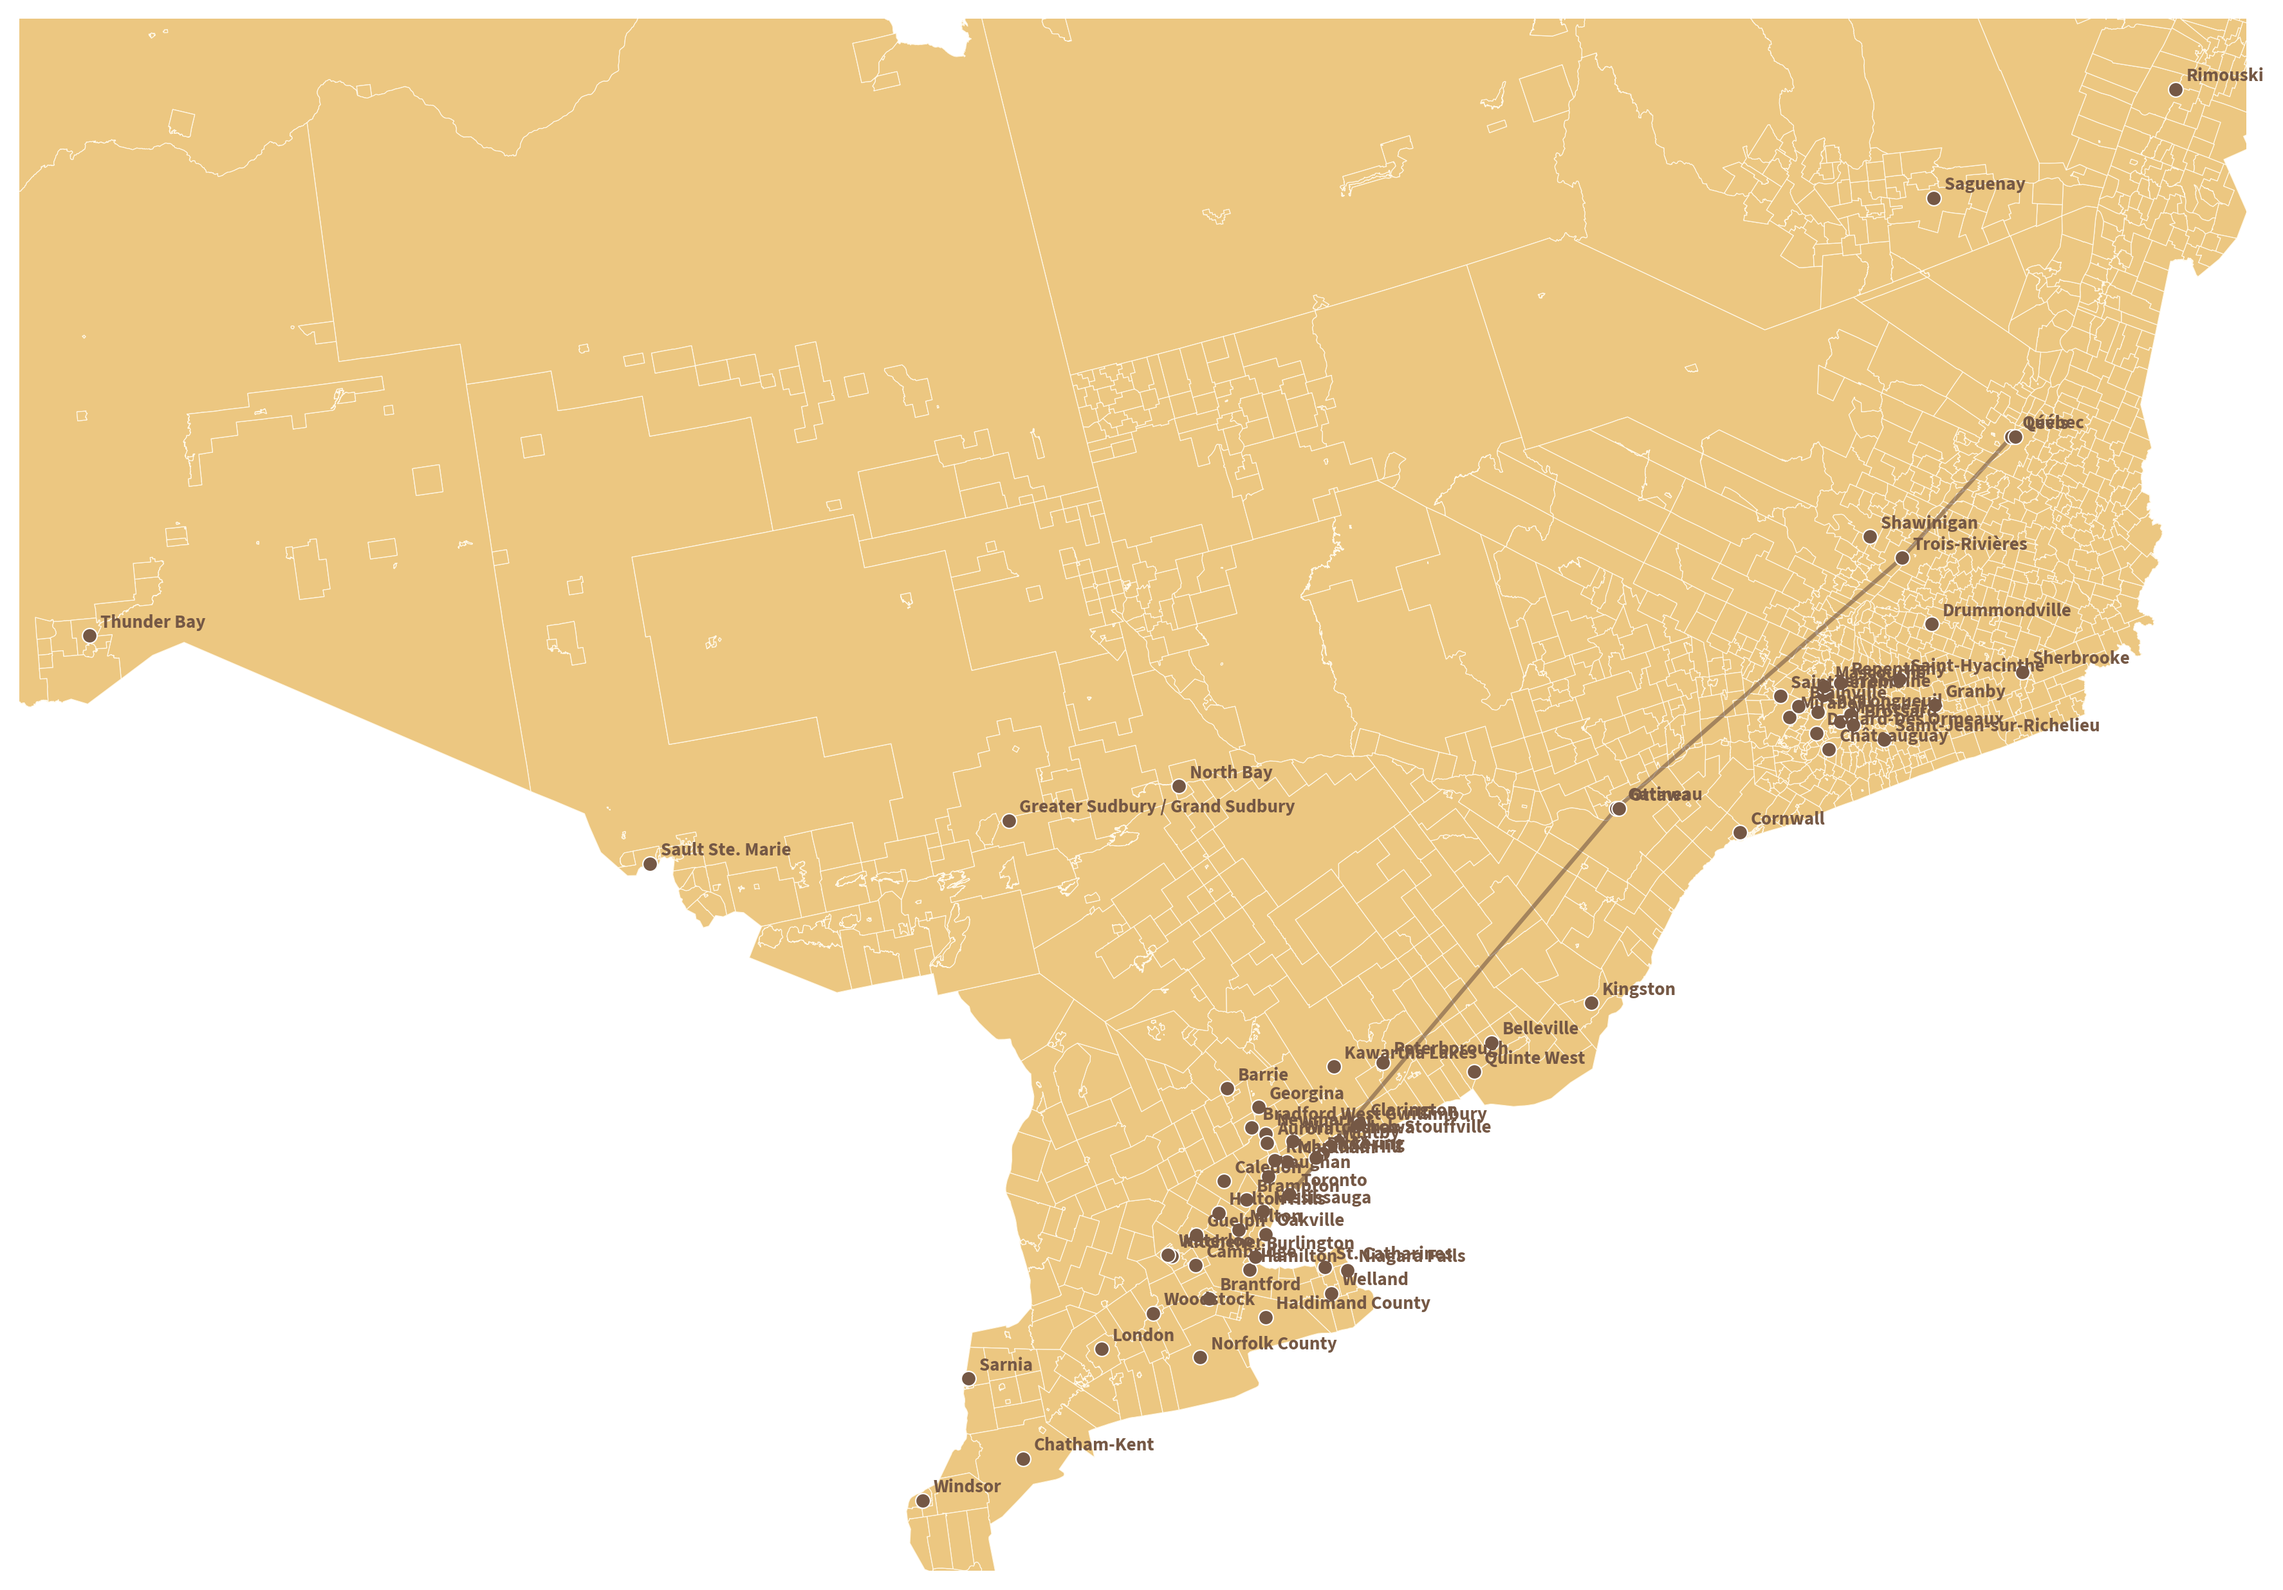
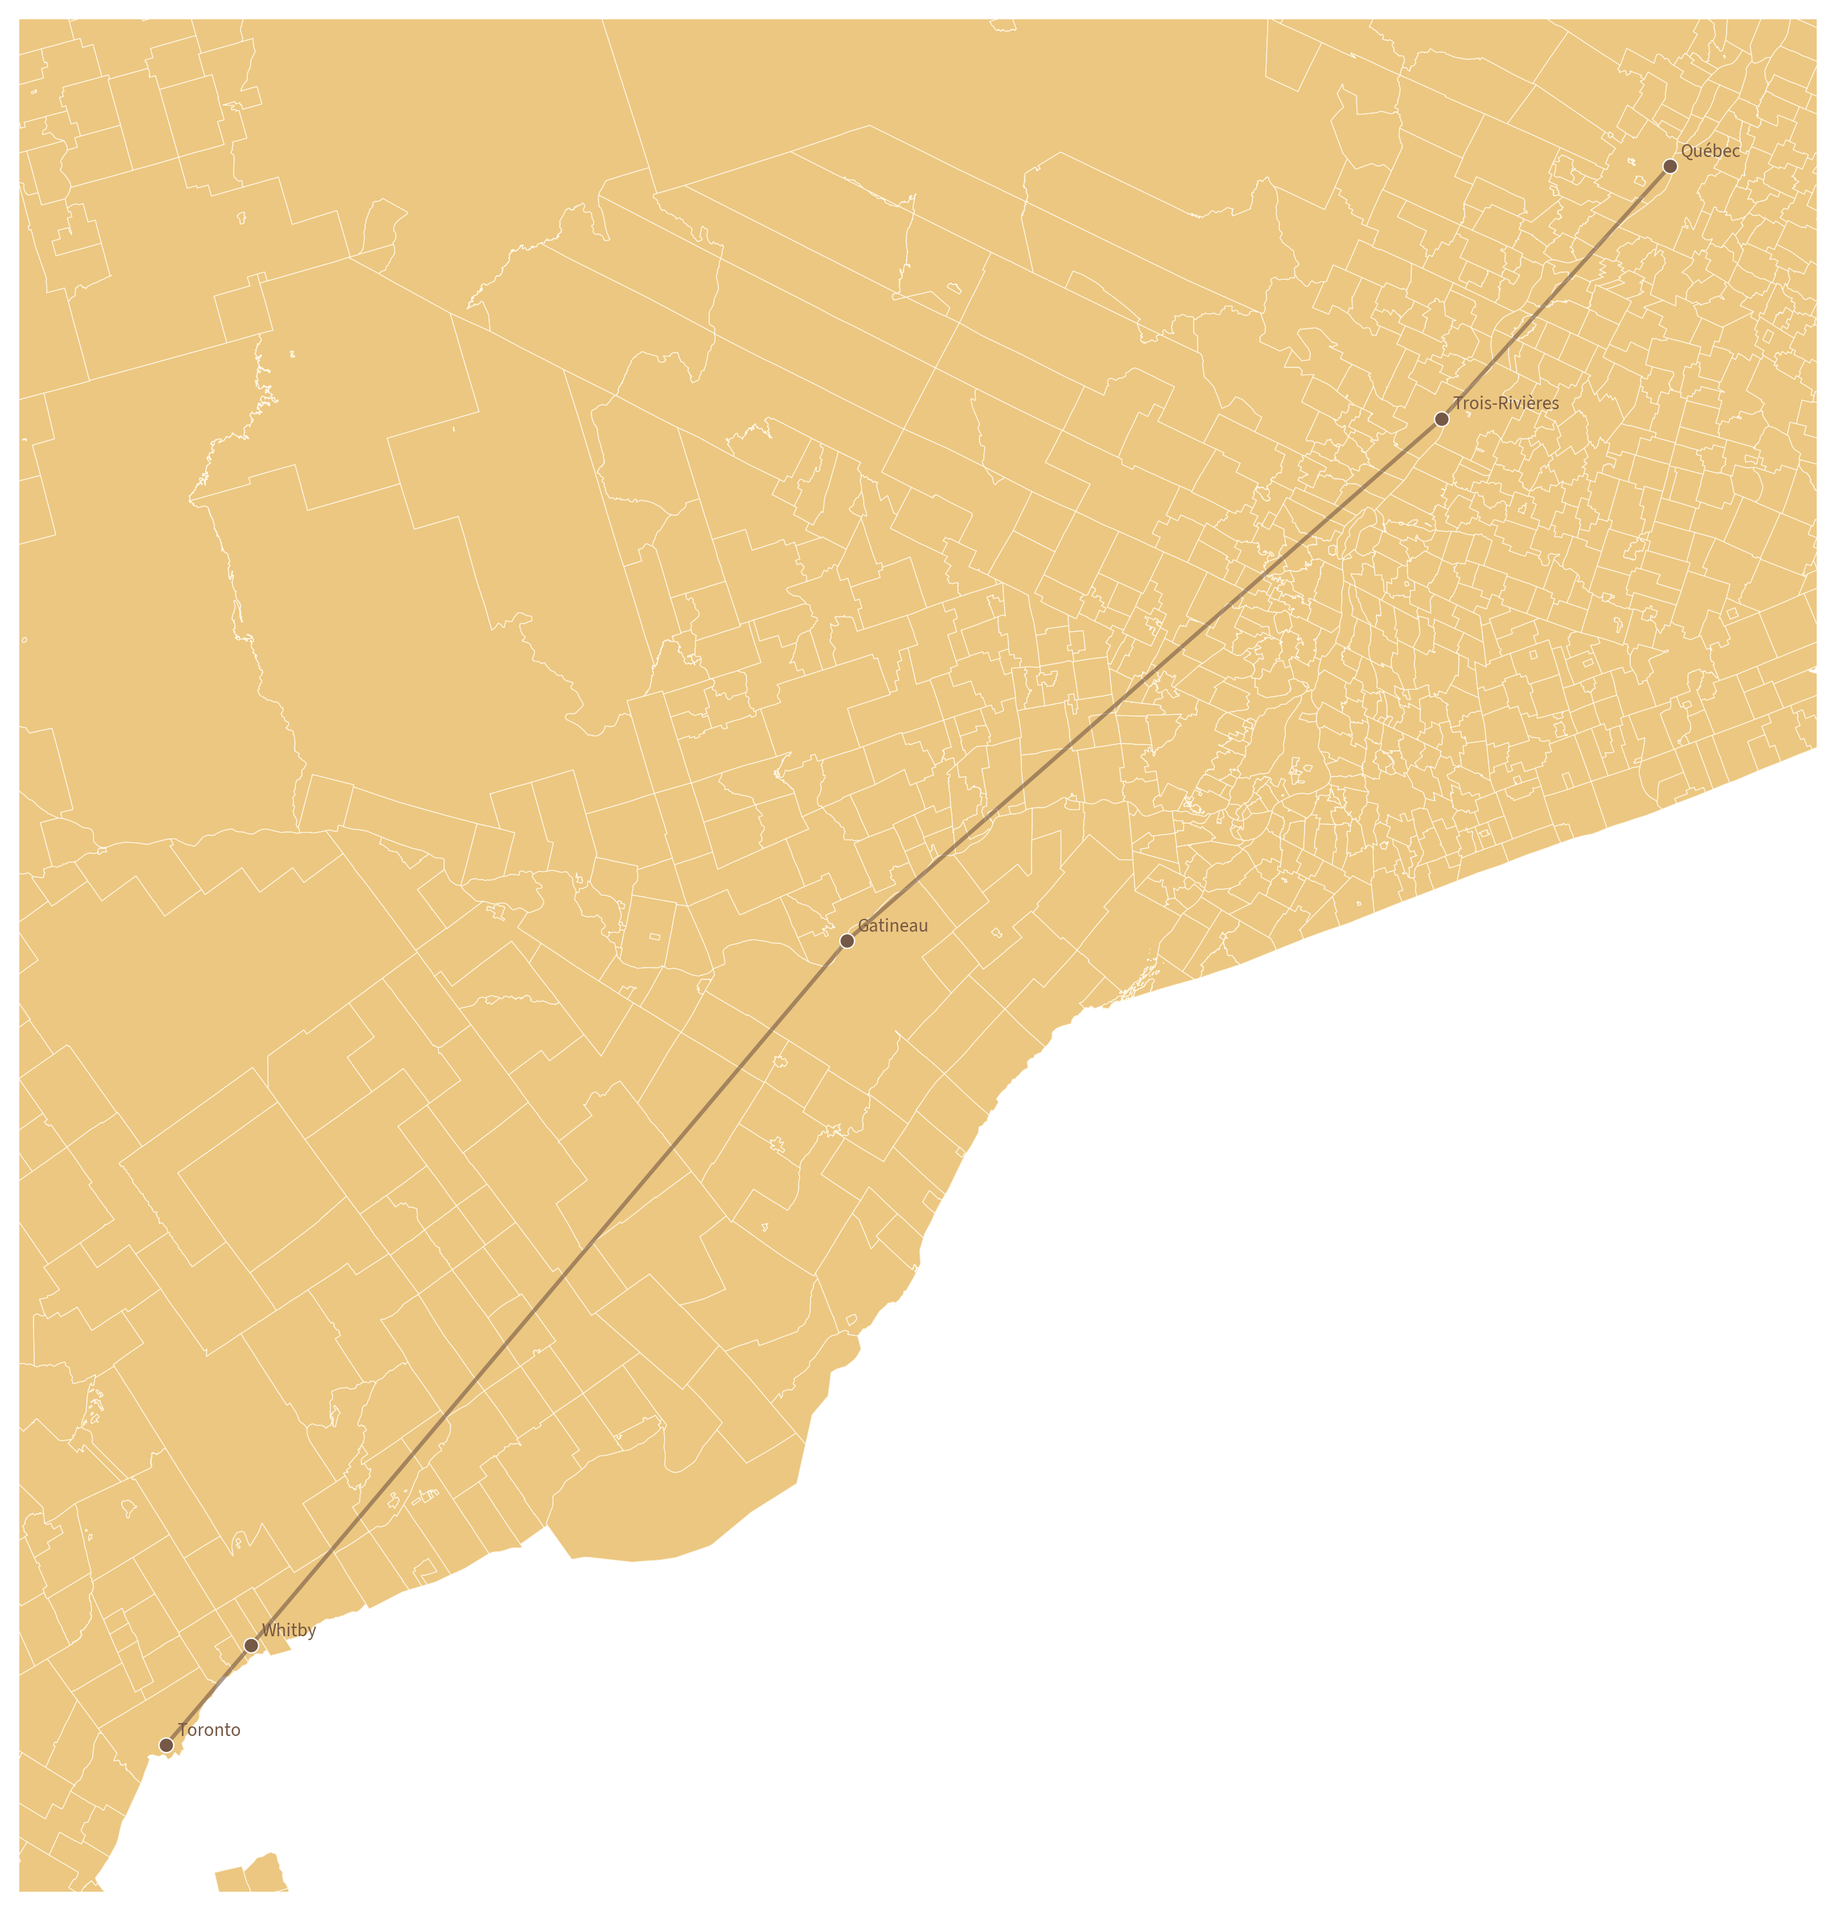
Refactor plot.py and link model output

diff --git a/plot.py b/plot.py
@@ -11,6 +11,7 @@ from shapely.geometry import Point
 import pandas as pd
 import os
 import pathlib
+import json
 
 # === CONFIG ===
 CITIES_CSV_PATH = "data/cities_with_coordinates.csv"
@@ -115,16 +116,27 @@ def plot_map(
     figsize=(12, 10),
     show=True,
     city_links=None,
+    selected_cities=None,
 ):
     # --- Reproject to Canada Lambert Conformal Conic ---
     target_crs = "EPSG:3978"
     canada_gdf = canada_gdf.to_crs(target_crs)
     cities_gdf = cities_gdf.to_crs(target_crs)
 
-    # Calculate bounds for zooming (after projection)
-    bounds = calculate_bounds(
-        cities_gdf, padding_meters=50000
-    )  # padding in meters for projected CRS
+    # --- Choose which cities to display ---
+    if selected_cities is not None:
+        # Use list of cities given by the caller
+        cities_to_plot = cities_gdf[cities_gdf["City_Name"].isin(selected_cities)].copy()
+    elif city_links:
+        # only show cities that appear in the links
+        linked_cities = {c for pair in city_links for c in pair}
+        cities_to_plot = cities_gdf[cities_gdf["City_Name"].isin(linked_cities)].copy()
+    else:
+        # show all cities
+        cities_to_plot = cities_gdf
+
+    # Calculate bounds for zooming (after projection), based on the selected cities
+    bounds = calculate_bounds(cities_to_plot, padding_meters=50000)
 
     # Load fonts from static folder
     static_dir = load_fonts_from_static()
@@ -155,7 +167,7 @@ def plot_map(
     if city_links:
         # Create a dictionary mapping city names to their coordinates
         city_coords = {}
-        for _, row in cities_gdf.iterrows():
+        for _, row in cities_to_plot.iterrows():
             city_coords[row["City_Name"]] = (row.geometry.x, row.geometry.y)
 
         # Draw lines for each city pair
@@ -179,7 +191,7 @@ def plot_map(
                 )
 
     # Plot city markers
-    cities_gdf.plot(
+    cities_to_plot.plot(
         ax=ax,
         color=POINT_COLOR,
         marker=MARKER,
@@ -190,7 +202,7 @@ def plot_map(
     )
 
     # Add city labels for all cities
-    for _, row in cities_gdf.iterrows():
+    for _, row in cities_to_plot.iterrows():
         x, y = row.geometry.x, row.geometry.y
         ax.annotate(
             row["City_Name"],
@@ -231,6 +243,11 @@ def main():
         ("Gatineau", "Whitby"),
         ("Toronto", "Whitby"),
     ]
+    with open("solution.json") as f:
+        sol = json.load(f)
+
+    selected_cities = sol["stations"]
+    city_links = [tuple(e) for e in sol["edges"]]
 
     print("Loading cities from CSV...")
     cities_gdf = load_cities_from_csv(CITIES_CSV_PATH)
@@ -241,7 +258,10 @@ def main():
     print(f"Loaded map with {len(canada_gdf)} features")
 
     print("Plotting map...")
-    plot_map(canada_gdf, cities_gdf, city_links=city_links)
+    plot_map(canada_gdf,
+        cities_gdf,
+        city_links=city_links,
+        selected_cities=selected_cities,)
     print(f"✅ Saved map to {OUT_PNG}")
 
 

diff --git a/model.py b/model.py
@@ -4,6 +4,7 @@ import itertools
 import pandas as pd
 import numpy as np
 from gurobipy import Model, GRB, quicksum
+import json 
 
 
 CSV_PATH = (
@@ -247,5 +248,11 @@ if m.Status == GRB.OPTIMAL or m.Status == GRB.TIME_LIMIT:
     print("Stations chosen:", chosen_stations)
     print("Edges chosen:", chosen_edges)
     print("Objective (monthly profit):", m.ObjVal)
+    solution = {
+        "stations": chosen_stations,               
+        "edges": [list(eij) for eij in chosen_edges],  
+    }
+    with open("solution.json", "w") as f:
+        json.dump(solution, f)
 else:
     print("No optimal solution found. Status:", m.Status)
